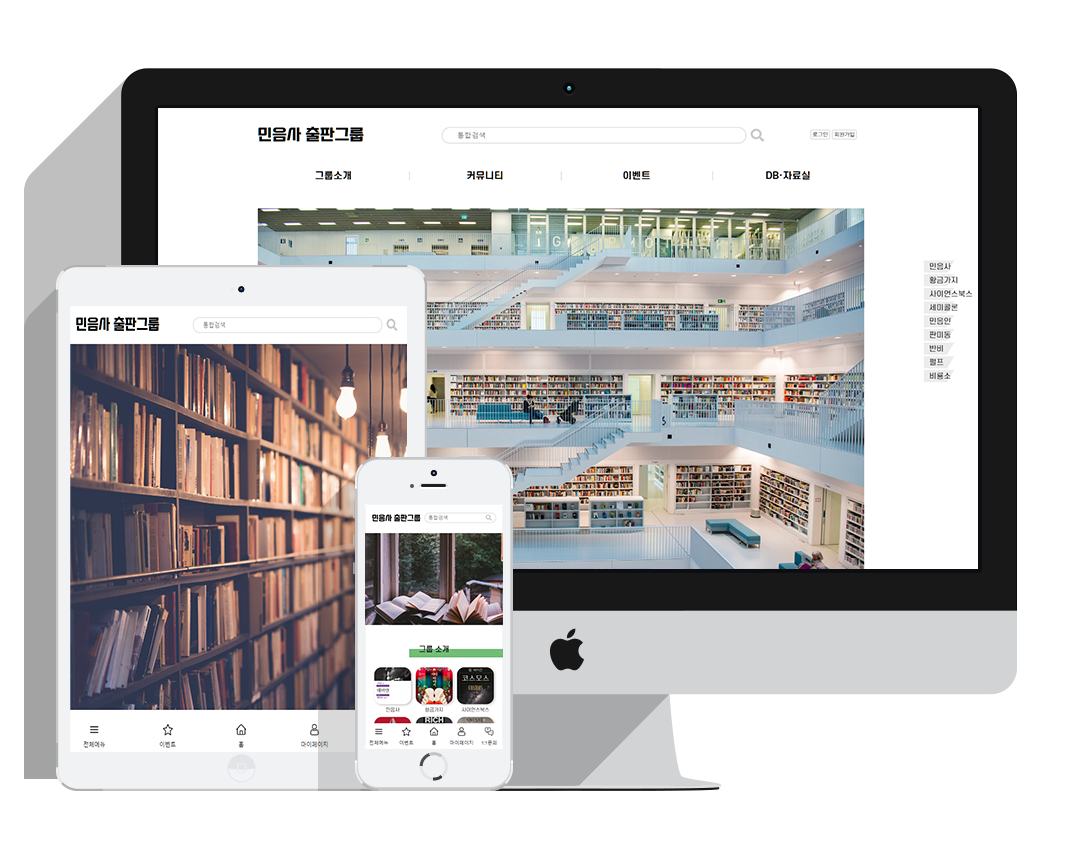
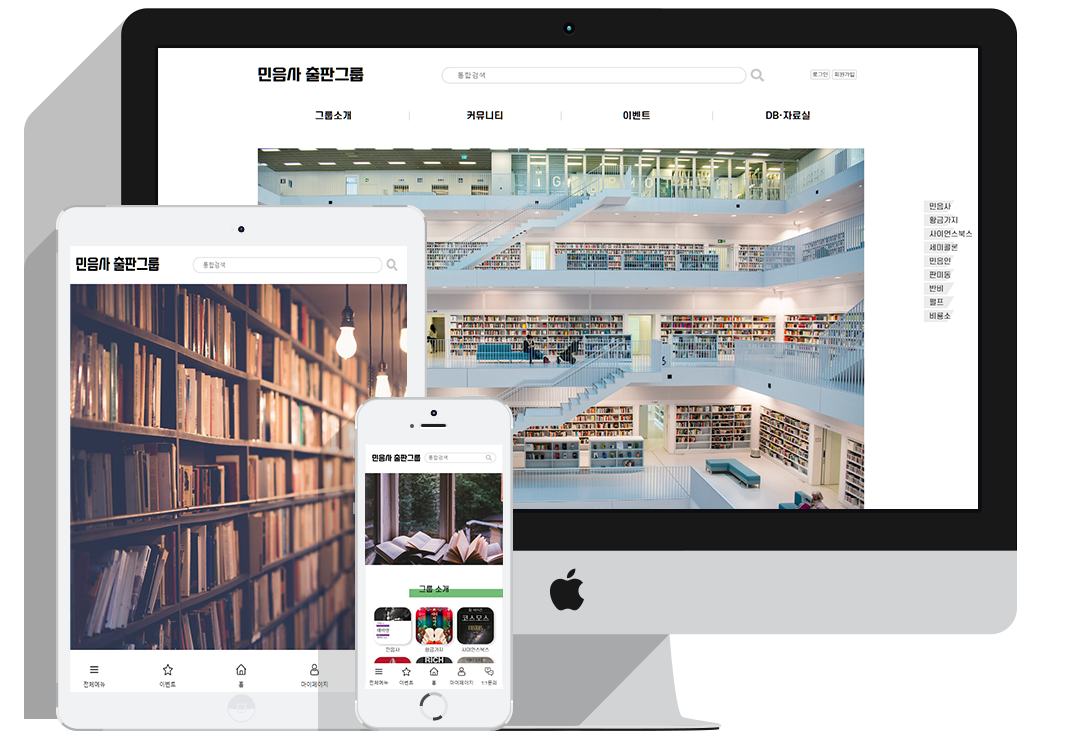
mark01.4

diff --git a/css/main.css b/css/main.css
@@ -160,6 +160,7 @@
     border: 1px solid #ccc;
     border-radius: 20px;
     box-sizing: border-box;
+    overflow: hidden;
 }
 .container #project_list .inner ul .list_box > ul {
     display: flex;
@@ -193,6 +194,8 @@
     margin-right: 10px;
 }
 .container #project_list .inner ul .list_box > ul li:nth-child(3) {
+    display: flex;
+    align-items: flex-end;
     height: 39px;
     margin-left: 10px;
 }
@@ -201,16 +204,52 @@
     position: relative;
 }
 .container #project_list .inner ul .list_box > ul li:nth-child(4) span {
-    position: absolute; top: 0px; right: 0px;
+    position: absolute; top: 10px; right: 15px;
     font-family: 's-coredream-5medium';
     text-align: right;
     border: 1px solid #000;
     padding: 5px;
 }
-.container #project_list .inner ul .list_box > ul li:nth-child(4) p {text-align: center;}
-.container #project_list .inner ul .list_box ul li img {width: 300px;}
-.container #project_list .inner ul .list_box ul:nth-child(1) li:nth-child(4) {
-    background: url(./images/);
+.container #project_list .inner ul .list_box > ul li:nth-child(4) span::before {
+    position: absolute; top: 0px; left: 0px;
+    content: '';
+    width: 0px; height: 100%;
+    background: #000;
+    transition: all 0.3s;
+    box-sizing: border-box;
+}
+.container #project_list .inner ul .list_box > ul li:nth-child(4) span:hover:before {
+    width: 100%;
+}
+.container #project_list .inner ul .list_box > ul li:nth-child(4) span a {
+    position: absolute; top: 0px; left: 0px;
+    color: #fff;
+    padding: 5px;
+    opacity: 0;
+    transition: all 0.3s;
+}
+.container #project_list .inner ul .list_box > ul li:nth-child(4) span:hover a {opacity: 1;}
+.container #project_list .inner ul .list_box > ul li:nth-child(4) p {
+    text-align: center;
+    color: #fff;
+    margin-top: 90px;
+}
+.container #project_list .inner ul .list_box ul li img {
+    display: block;
+    width: 300px;
+    margin: 15px auto 0px;
+}
+.container #project_list .inner ul .list_box:nth-child(1) ul li:nth-child(4) {
+    background: url(./images/list_bg01.png)no-repeat;
+    background-size: cover;
+}
+.container #project_list .inner ul .list_box:nth-child(2) ul li:nth-child(4) {
+    background: url(./images/list_bg02.png)no-repeat;
+    background-size: cover;
+}
+.container #project_list .inner ul .list_box:nth-child(3) ul li:nth-child(4) {
+    background: url(./images/list_bg03.png)no-repeat;
+    background-size: cover;
 }
 
 /* ---------- #project_list ---------- */
@@ -274,10 +313,10 @@
     border-radius: 0px 300px 300px 0px;
     z-index: -1;
 } 
-.container #contect .inner {padding-top: 100px;}
+.container #contect .inner {}
 .container #contect .inner .contect_txt {
     position: absolute;
-    top: 320px; right: 3%;
+    top: 180px; right: 3%;
     width: 735px; height: 500px;
     background: radial-gradient(94.36% 94.36% at 3.68% 2.09%, rgba(255, 255, 255, 0.4) 0%, 
     rgba(255, 255, 255, 0) 100%);

diff --git a/index.html b/index.html
@@ -64,7 +64,10 @@
                             <li>Minumsa</li>
                             <li>#HTML#CSS#JavaScript#jQurey</li>
                             <li>
-                                <span>웹사이트 바로가기</span>
+                                <span>
+                                    <a href="#">웹사이트 바로가기</a>
+                                    웹사이트 바로가기
+                                </span>
                                 <p>민음사 웹사이트 반응형으로 리뉴얼해보았습니다.</p>
                                 <img src="./images/responsive.png" alt="민음사">
                             </li>
@@ -76,7 +79,10 @@
                             <li>Jo Malone</li>
                             <li>#HTML#CSS#JavaScript#jQurey#Node js.#SASS<br/>#parcel-bundler#TeamProject</li>
                             <li>
-                                <span>웹사이트 바로가기</span>
+                                <span>
+                                    <a href="#">웹사이트 바로가기</a>
+                                    웹사이트 바로가기
+                                </span>
                                 <p>조말론 웹사이트를 리뉴얼해보았습니다.</p>
                                 <img src="./images/Browser_01.png" alt="조말론">
                             </li>
@@ -88,7 +94,10 @@
                             <li>Login & Join</li>
                             <li>#HTML#CSS#JavaScript#jQurey</li>
                             <li>
-                                <span>웹사이트 바로가기</span>
+                                <span>
+                                    <a href="#">웹사이트 바로가기</a>
+                                    웹사이트 바로가기
+                                </span>
                                 <p>간단하게 구현해본 로그인 & 회원가입 페이지입니다.</p>
                                 <img src="./images/Browser_02.png" alt="로그인조인">
                             </li>
